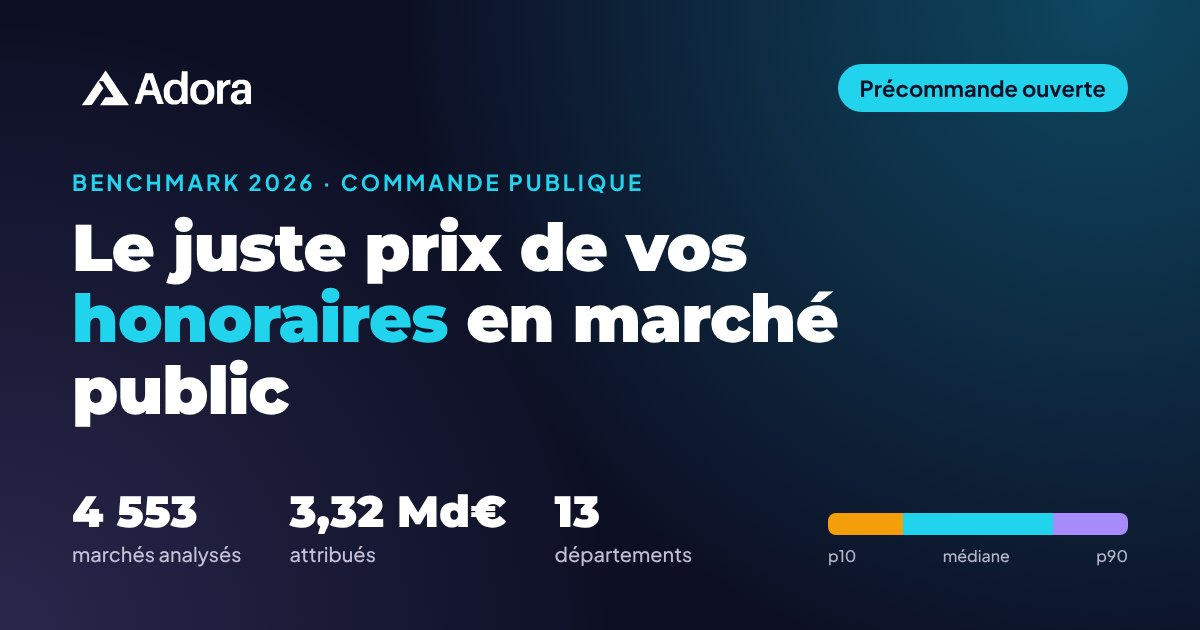
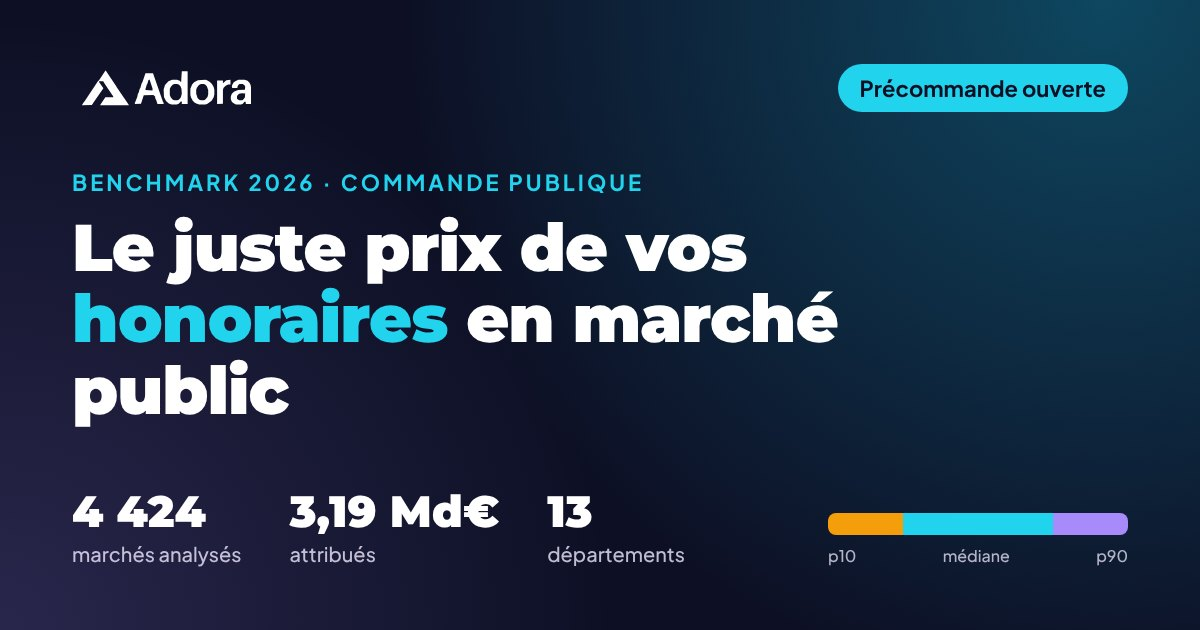
Benchmark : chiffres après second dédoublonnage (4 424 marchés, 3,19 Md€, +46 %)
Claude-Session: https://claude.ai/code/session_01AMF5KYxt2yLyme2bcbJtRg

Changed region(s): [[0.2775, 0.7841, 0.5242, 0.8444], [0.0925, 0.7841, 0.185, 0.8444], [0.4625, 0.8746, 0.5858, 0.9048]]

diff --git a/benchmark-honoraires.html b/benchmark-honoraires.html
@@ -12,12 +12,12 @@
 <link rel="stylesheet" href="assets/fonts/adora-fonts.css">
 
 <title>Benchmark des honoraires en marché public 2026 | IDF &amp; Normandie | ADORA</title>
-<meta name="description" content="4 553 marchés publics de maîtrise d'œuvre et d'ingénierie analysés en Île-de-France et en Normandie. Fourchettes d'honoraires p10 à p90 par typologie. Précommande 79 €.">
+<meta name="description" content="4 424 marchés publics de maîtrise d'œuvre et d'ingénierie analysés en Île-de-France et en Normandie. Fourchettes d'honoraires p10 à p90 par typologie. Précommande 79 €.">
 <link rel="canonical" href="https://adora-economie.fr/benchmark-honoraires.html">
 <meta property="og:type" content="product">
 <meta property="og:url" content="https://adora-economie.fr/benchmark-honoraires.html">
 <meta property="og:title" content="Le juste prix de vos honoraires en marché public | ADORA">
-<meta property="og:description" content="4 553 marchés de maîtrise d'œuvre et d'ingénierie analysés, fourchettes p10 à p90 par typologie et par département. Précommande au prix de lancement.">
+<meta property="og:description" content="4 424 marchés de maîtrise d'œuvre et d'ingénierie analysés, fourchettes p10 à p90 par typologie et par département. Précommande au prix de lancement.">
 <meta property="og:image" content="https://adora-economie.fr/img/articles/benchmark-honoraires.jpg">
 <meta property="og:image:width" content="1200">
 <meta property="og:image:height" content="630">
@@ -26,7 +26,7 @@
 <meta property="og:site_name" content="ADORA">
 <meta name="twitter:card" content="summary_large_image">
 <meta name="twitter:title" content="Le juste prix de vos honoraires en marché public | ADORA">
-<meta name="twitter:description" content="4 553 marchés publics analysés, fourchettes d'honoraires p10 à p90 par typologie. Précommande 79 €.">
+<meta name="twitter:description" content="4 424 marchés publics analysés, fourchettes d'honoraires p10 à p90 par typologie. Précommande 79 €.">
 <meta name="twitter:image" content="https://adora-economie.fr/img/articles/benchmark-honoraires.jpg">
 <meta name="geo.region" content="FR-NOR">
 <meta name="geo.placename" content="Louviers">
@@ -445,7 +445,7 @@ img{max-width:100%;height:auto}
       "@type": "Product",
       "@id": "https://adora-economie.fr/benchmark-honoraires.html#produit",
       "name": "Benchmark des honoraires en marché public 2026",
-      "description": "Rapport PDF et classeur Excel : 4 553 marchés publics de services d'architecture, d'ingénierie et d'inspection (CPV 71) attribués en Île-de-France et en Normandie, analysés par typologie d'opération et par département (fourchettes p10, p25, médiane, p75, p90).",
+      "description": "Rapport PDF et classeur Excel : 4 424 marchés publics de services d'architecture, d'ingénierie et d'inspection (CPV 71) attribués en Île-de-France et en Normandie, analysés par typologie d'opération et par département (fourchettes p10, p25, médiane, p75, p90).",
       "image": "https://adora-economie.fr/img/articles/benchmark-honoraires.jpg",
       "brand": { "@type": "Brand", "name": "ADORA" },
       "category": "Rapport d'étude de marché",
@@ -532,7 +532,7 @@ img{max-width:100%;height:auto}
         <button type="button" class="anav-trigger" aria-expanded="false" aria-controls="anav-pro">Professionnels<svg aria-hidden="true" width="14" height="14" viewBox="0 0 24 24" fill="none" stroke="currentColor" stroke-width="2.4" stroke-linecap="round" stroke-linejoin="round"><path d="M6 9l6 6 6-6"/></svg></button>
         <div class="anav-drop" id="anav-pro"><div class="anav-drop-card">
           <a href="professionnels.html" class="anav-link"><span class="t">Offre professionnels</span><span class="d">Estimations, métrés, CCTP, DPGF, analyse des offres</span></a>
-          <a href="benchmark-honoraires.html" class="anav-link" aria-current="page"><span class="t">Benchmark des honoraires <span class="anav-new">Nouveau</span></span><span class="d">4 553 marchés publics analysés</span></a>
+          <a href="benchmark-honoraires.html" class="anav-link" aria-current="page"><span class="t">Benchmark des honoraires <span class="anav-new">Nouveau</span></span><span class="d">4 424 marchés publics analysés</span></a>
           <a href="partenaires.html#devenir-partenaire" class="anav-link"><span class="t">Devenir partenaire</span><span class="d">Architectes et professionnels du bâtiment</span></a>
         </div></div>
       </li>
@@ -567,7 +567,7 @@ img{max-width:100%;height:auto}
         <span class="hero-badge">Édition 2026</span>
       </div>
       <h1>Le juste prix de vos <em>honoraires</em> en marché public.</h1>
-      <p class="lead">4 553 marchés de prestations d'architecture, d'ingénierie et d'assistance, classés par typologie d'opération et par département. Les fourchettes réellement retenues par les acheteurs publics, réunies dans un seul rapport.</p>
+      <p class="lead">4 424 marchés de prestations d'architecture, d'ingénierie et d'assistance, classés par typologie d'opération et par département. Les fourchettes réellement retenues par les acheteurs publics, réunies dans un seul rapport.</p>
       <div class="bm-hero-ctas">
         <a href="#offre" class="btn btn-accent">Précommander à 79 €</a>
         <a href="#contenu" class="btn btn-outline">Voir le contenu</a>
@@ -576,9 +576,9 @@ img{max-width:100%;height:auto}
     </div>
     <div class="bm-stats">
       <div class="bm-stats-grid">
-        <div><span class="bm-stat-val">4 553</span><span class="bm-stat-lbl">marchés attribués</span></div>
-        <div><span class="bm-stat-val">3,32 Md€</span><span class="bm-stat-lbl">de montants cumulés HT</span></div>
-        <div><span class="bm-stat-val">3 205</span><span class="bm-stat-lbl">titulaires différents</span></div>
+        <div><span class="bm-stat-val">4 424</span><span class="bm-stat-lbl">marchés attribués</span></div>
+        <div><span class="bm-stat-val">3,19 Md€</span><span class="bm-stat-lbl">de montants cumulés HT</span></div>
+        <div><span class="bm-stat-val">3 204</span><span class="bm-stat-lbl">titulaires différents</span></div>
         <div><span class="bm-stat-val">13</span><span class="bm-stat-lbl">départements couverts</span></div>
       </div>
       <p class="bm-source">Source : DECP consolidées, data.gouv.fr · Licence Ouverte 2.0<br>Marchés notifiés du 27/10/2024 au 26/10/2026</p>
@@ -626,7 +626,7 @@ img{max-width:100%;height:auto}
         <div class="bm-clean-out">
           <span class="bm-tag">Dans le rapport</span>
           <strong>Réhabilitation / rénovation</strong>
-          <div class="bm-chips"><span class="bm-chip">544 marchés</span><span class="bm-chip">p10 : 52 k€</span><span class="bm-chip">Médiane : 136 k€</span></div>
+          <div class="bm-chips"><span class="bm-chip">531 marchés</span><span class="bm-chip">p10 : 52 k€</span><span class="bm-chip">Médiane : 136 k€</span></div>
         </div>
       </div>
       <p class="bm-clean-end">J'ai rassemblé ces données, je les ai nettoyées et classées, pour que vous puissiez situer votre offre avant de la déposer.</p>
@@ -640,19 +640,19 @@ img{max-width:100%;height:auto}
     <div class="bm-head">
       <span class="bm-eyebrow on-dark">Deux repères tirés du benchmark</span>
       <h2 class="bm-h2 on-dark">Deux chiffres qui changent la façon de chiffrer</h2>
-      <p class="bm-lead on-dark">Extraits de l'analyse des 4 553 marchés. Le rapport les détaille famille par famille.</p>
+      <p class="bm-lead on-dark">Extraits de l'analyse des 4 424 marchés. Le rapport les détaille famille par famille.</p>
     </div>
     <div class="bm-cards-2">
       <div class="bm-dark-card">
         <div>
           <span class="k">Écart territorial</span>
-          <span class="v cyan">+47 %</span>
-          <p>L'écart de montant médian attribué entre l'Île-de-France et la Normandie, tous marchés confondus. Selon la famille de prestations, il va de −19 % à +217 %.</p>
+          <span class="v cyan">+46 %</span>
+          <p>L'écart de montant médian attribué entre l'Île-de-France et la Normandie, tous marchés confondus. Selon la famille de prestations, il va de −20 % à +225 %.</p>
         </div>
-        <div class="bm-viz" role="img" aria-label="Montant médian attribué, indice 100 en Normandie : Île-de-France 147.">
+        <div class="bm-viz" role="img" aria-label="Montant médian attribué, indice 100 en Normandie : Île-de-France 146.">
           <div class="bm-bar-row" aria-hidden="true"><span class="lbl">Normandie</span><div class="bm-bar-track"><div class="bm-bar-fill nor"></div></div></div>
           <div class="bm-bar-row" aria-hidden="true"><span class="lbl">Île-de-France</span><div class="bm-bar-track"><div class="bm-bar-fill idf"></div></div></div>
-          <div class="bm-bar-axis" aria-hidden="true"><span class="sp"></span><div class="ax"><span style="left:68%">100</span><span>147</span></div></div>
+          <div class="bm-bar-axis" aria-hidden="true"><span class="sp"></span><div class="ax"><span style="left:68%">100</span><span>146</span></div></div>
           <span class="bm-viz-note" aria-hidden="true">Indice 100 = montant médian attribué en Normandie</span>
         </div>
         <p class="bm-takeaway cyan"><strong>Ce que ça change :</strong> un même prix ne se lit pas pareil à Paris et à Évreux. Chiffrer sans repère territorial, c'est se tromper de marché.</p>
@@ -661,13 +661,13 @@ img{max-width:100%;height:auto}
         <div>
           <span class="k">Concentration du marché</span>
           <span class="v iris">1 marché sur 5</span>
-          <p>La part des marchés où l'on retrouve l'un des 50 titulaires les plus actifs, sur 3 205 titulaires différents.</p>
+          <p>La part des marchés où l'on retrouve l'un des 50 titulaires les plus actifs, sur 3 204 titulaires différents.</p>
         </div>
         <div class="bm-viz bm-donut-wrap">
           <svg role="img" aria-label="Les 50 titulaires les plus actifs sont présents dans 20 % des marchés ; 80 % des marchés vont à d'autres titulaires." width="132" height="132" viewBox="0 0 120 120"><circle cx="60" cy="60" r="46" fill="none" stroke="#4A4A7A" stroke-width="16"/><circle cx="60" cy="60" r="46" fill="none" stroke="#A78BFA" stroke-width="16" stroke-dasharray="58.96 289.03" transform="rotate(-90 60 60)"/><text x="60" y="57" text-anchor="middle" font-family="Montserrat, sans-serif" font-weight="800" font-size="16" fill="#FFFFFF">Top 50</text><text x="60" y="74" text-anchor="middle" font-family="ui-monospace, Menlo, monospace" font-size="11" fill="#C9CFE0">20 %</text></svg>
           <div class="bm-legend">
             <div><i style="background:#A78BFA"></i><span><b>50 titulaires les plus actifs</b><small>présents dans 20 % des marchés</small></span></div>
-            <div><i style="background:#4A4A7A;border:1px solid rgba(255,255,255,.3)"></i><span><b>3 155 autres titulaires</b><small>seuls sur 80 % des marchés</small></span></div>
+            <div><i style="background:#4A4A7A;border:1px solid rgba(255,255,255,.3)"></i><span><b>3 154 autres titulaires</b><small>seuls sur 80 % des marchés</small></span></div>
           </div>
         </div>
         <p class="bm-takeaway iris"><strong>Ce que ça change :</strong> le marché n'est pas verrouillé. Une structure indépendante bien positionnée y a toute sa place.</p>

diff --git a/professionnels.html b/professionnels.html
@@ -473,7 +473,7 @@ img{max-width:100%;height:auto}
         <button type="button" class="anav-trigger" aria-expanded="false" aria-controls="anav-pro">Professionnels<svg aria-hidden="true" width="14" height="14" viewBox="0 0 24 24" fill="none" stroke="currentColor" stroke-width="2.4" stroke-linecap="round" stroke-linejoin="round"><path d="M6 9l6 6 6-6"/></svg></button>
         <div class="anav-drop" id="anav-pro"><div class="anav-drop-card">
           <a href="professionnels.html" class="anav-link" aria-current="page"><span class="t">Offre professionnels</span><span class="d">Estimations, métrés, CCTP, DPGF, analyse des offres</span></a>
-          <a href="benchmark-honoraires.html" class="anav-link"><span class="t">Benchmark des honoraires <span class="anav-new">Nouveau</span></span><span class="d">4 553 marchés publics analysés</span></a>
+          <a href="benchmark-honoraires.html" class="anav-link"><span class="t">Benchmark des honoraires <span class="anav-new">Nouveau</span></span><span class="d">4 424 marchés publics analysés</span></a>
           <a href="partenaires.html#devenir-partenaire" class="anav-link"><span class="t">Devenir partenaire</span><span class="d">Architectes et professionnels du bâtiment</span></a>
         </div></div>
       </li>
@@ -588,7 +588,7 @@ img{max-width:100%;height:auto}
       <div style="flex:1 1 380px;min-width:0">
         <p style="margin:0 0 8px;font-size:12px;font-weight:700;letter-spacing:2px;text-transform:uppercase;color:#22D3EE">Nouveau · Benchmark 2026</p>
         <p style="margin:0 0 8px;font-family:'Montserrat',sans-serif;font-weight:800;font-size:22px;line-height:1.25;color:#FFFFFF">Et vos propres honoraires en marché public&#8239;?</p>
-        <p style="margin:0;font-size:15px;line-height:1.65;color:rgba(214,228,240,.85)">J'ai analysé 4 553 marchés de maîtrise d'œuvre et d'ingénierie attribués en Île-de-France et en Normandie. Le benchmark donne les fourchettes réellement retenues, typologie par typologie, pour situer votre offre avant de la déposer.</p>
+        <p style="margin:0;font-size:15px;line-height:1.65;color:rgba(214,228,240,.85)">J'ai analysé 4 424 marchés de maîtrise d'œuvre et d'ingénierie attribués en Île-de-France et en Normandie. Le benchmark donne les fourchettes réellement retenues, typologie par typologie, pour situer votre offre avant de la déposer.</p>
       </div>
       <a href="benchmark-honoraires.html" class="btn btn-accent" style="font-size:14px;padding:14px 26px;color:#0D1025;white-space:nowrap">Découvrir le benchmark</a>
     </div>

diff --git a/dpgf-comparable-consultation.html b/dpgf-comparable-consultation.html
@@ -300,7 +300,7 @@ img{max-width:100%;height:auto}
         <button type="button" class="anav-trigger" aria-expanded="false" aria-controls="anav-pro">Professionnels<svg aria-hidden="true" width="14" height="14" viewBox="0 0 24 24" fill="none" stroke="currentColor" stroke-width="2.4" stroke-linecap="round" stroke-linejoin="round"><path d="M6 9l6 6 6-6"/></svg></button>
         <div class="anav-drop" id="anav-pro"><div class="anav-drop-card">
           <a href="professionnels.html" class="anav-link"><span class="t">Offre professionnels</span><span class="d">Estimations, métrés, CCTP, DPGF, analyse des offres</span></a>
-          <a href="benchmark-honoraires.html" class="anav-link"><span class="t">Benchmark des honoraires <span class="anav-new">Nouveau</span></span><span class="d">4 553 marchés publics analysés</span></a>
+          <a href="benchmark-honoraires.html" class="anav-link"><span class="t">Benchmark des honoraires <span class="anav-new">Nouveau</span></span><span class="d">4 424 marchés publics analysés</span></a>
           <a href="partenaires.html#devenir-partenaire" class="anav-link"><span class="t">Devenir partenaire</span><span class="d">Architectes et professionnels du bâtiment</span></a>
         </div></div>
       </li>
@@ -434,7 +434,7 @@ img{max-width:100%;height:auto}
   <div style="flex:1 1 320px;min-width:0">
     <p style="margin:0 0 6px;font-size:12px;font-weight:700;letter-spacing:1.5px;text-transform:uppercase;color:#0E7490">Nouveau · Benchmark 2026</p>
     <p style="margin:0 0 6px;font-family:'Montserrat',sans-serif;font-weight:800;font-size:19px;line-height:1.3;color:#0D1025">Combien les acheteurs publics paient-ils vraiment une mission&#8239;?</p>
-    <p style="margin:0;font-size:15px;line-height:1.6;color:#64748B">4 553 marchés de maîtrise d'œuvre et d'ingénierie analysés en Île-de-France et en Normandie : fourchettes d'honoraires p10 à p90 par typologie et par département.</p>
+    <p style="margin:0;font-size:15px;line-height:1.6;color:#64748B">4 424 marchés de maîtrise d'œuvre et d'ingénierie analysés en Île-de-France et en Normandie : fourchettes d'honoraires p10 à p90 par typologie et par département.</p>
   </div>
   <a href="benchmark-honoraires.html" class="btn btn-accent" style="font-size:14px;padding:14px 24px;color:#0D1025">Découvrir le benchmark</a>
 </aside>

diff --git a/erreur-quantitatif-dce.html b/erreur-quantitatif-dce.html
@@ -300,7 +300,7 @@ img{max-width:100%;height:auto}
         <button type="button" class="anav-trigger" aria-expanded="false" aria-controls="anav-pro">Professionnels<svg aria-hidden="true" width="14" height="14" viewBox="0 0 24 24" fill="none" stroke="currentColor" stroke-width="2.4" stroke-linecap="round" stroke-linejoin="round"><path d="M6 9l6 6 6-6"/></svg></button>
         <div class="anav-drop" id="anav-pro"><div class="anav-drop-card">
           <a href="professionnels.html" class="anav-link"><span class="t">Offre professionnels</span><span class="d">Estimations, métrés, CCTP, DPGF, analyse des offres</span></a>
-          <a href="benchmark-honoraires.html" class="anav-link"><span class="t">Benchmark des honoraires <span class="anav-new">Nouveau</span></span><span class="d">4 553 marchés publics analysés</span></a>
+          <a href="benchmark-honoraires.html" class="anav-link"><span class="t">Benchmark des honoraires <span class="anav-new">Nouveau</span></span><span class="d">4 424 marchés publics analysés</span></a>
           <a href="partenaires.html#devenir-partenaire" class="anav-link"><span class="t">Devenir partenaire</span><span class="d">Architectes et professionnels du bâtiment</span></a>
         </div></div>
       </li>
@@ -426,7 +426,7 @@ img{max-width:100%;height:auto}
   <div style="flex:1 1 320px;min-width:0">
     <p style="margin:0 0 6px;font-size:12px;font-weight:700;letter-spacing:1.5px;text-transform:uppercase;color:#0E7490">Nouveau · Benchmark 2026</p>
     <p style="margin:0 0 6px;font-family:'Montserrat',sans-serif;font-weight:800;font-size:19px;line-height:1.3;color:#0D1025">Combien les acheteurs publics paient-ils vraiment une mission&#8239;?</p>
-    <p style="margin:0;font-size:15px;line-height:1.6;color:#64748B">4 553 marchés de maîtrise d'œuvre et d'ingénierie analysés en Île-de-France et en Normandie : fourchettes d'honoraires p10 à p90 par typologie et par département.</p>
+    <p style="margin:0;font-size:15px;line-height:1.6;color:#64748B">4 424 marchés de maîtrise d'œuvre et d'ingénierie analysés en Île-de-France et en Normandie : fourchettes d'honoraires p10 à p90 par typologie et par département.</p>
   </div>
   <a href="benchmark-honoraires.html" class="btn btn-accent" style="font-size:14px;padding:14px 24px;color:#0D1025">Découvrir le benchmark</a>
 </aside>

diff --git a/honoraires-economiste-mission-moe.html b/honoraires-economiste-mission-moe.html
@@ -300,7 +300,7 @@ img{max-width:100%;height:auto}
         <button type="button" class="anav-trigger" aria-expanded="false" aria-controls="anav-pro">Professionnels<svg aria-hidden="true" width="14" height="14" viewBox="0 0 24 24" fill="none" stroke="currentColor" stroke-width="2.4" stroke-linecap="round" stroke-linejoin="round"><path d="M6 9l6 6 6-6"/></svg></button>
         <div class="anav-drop" id="anav-pro"><div class="anav-drop-card">
           <a href="professionnels.html" class="anav-link"><span class="t">Offre professionnels</span><span class="d">Estimations, métrés, CCTP, DPGF, analyse des offres</span></a>
-          <a href="benchmark-honoraires.html" class="anav-link"><span class="t">Benchmark des honoraires <span class="anav-new">Nouveau</span></span><span class="d">4 553 marchés publics analysés</span></a>
+          <a href="benchmark-honoraires.html" class="anav-link"><span class="t">Benchmark des honoraires <span class="anav-new">Nouveau</span></span><span class="d">4 424 marchés publics analysés</span></a>
           <a href="partenaires.html#devenir-partenaire" class="anav-link"><span class="t">Devenir partenaire</span><span class="d">Architectes et professionnels du bâtiment</span></a>
         </div></div>
       </li>
@@ -434,7 +434,7 @@ img{max-width:100%;height:auto}
   <div style="flex:1 1 320px;min-width:0">
     <p style="margin:0 0 6px;font-size:12px;font-weight:700;letter-spacing:1.5px;text-transform:uppercase;color:#0E7490">Nouveau · Benchmark 2026</p>
     <p style="margin:0 0 6px;font-family:'Montserrat',sans-serif;font-weight:800;font-size:19px;line-height:1.3;color:#0D1025">Combien les acheteurs publics paient-ils vraiment une mission&#8239;?</p>
-    <p style="margin:0;font-size:15px;line-height:1.6;color:#64748B">4 553 marchés de maîtrise d'œuvre et d'ingénierie analysés en Île-de-France et en Normandie : fourchettes d'honoraires p10 à p90 par typologie et par département.</p>
+    <p style="margin:0;font-size:15px;line-height:1.6;color:#64748B">4 424 marchés de maîtrise d'œuvre et d'ingénierie analysés en Île-de-France et en Normandie : fourchettes d'honoraires p10 à p90 par typologie et par département.</p>
   </div>
   <a href="benchmark-honoraires.html" class="btn btn-accent" style="font-size:14px;padding:14px 24px;color:#0D1025">Découvrir le benchmark</a>
 </aside>

diff --git a/rapport-analyse-offres-mapa.html b/rapport-analyse-offres-mapa.html
@@ -300,7 +300,7 @@ img{max-width:100%;height:auto}
         <button type="button" class="anav-trigger" aria-expanded="false" aria-controls="anav-pro">Professionnels<svg aria-hidden="true" width="14" height="14" viewBox="0 0 24 24" fill="none" stroke="currentColor" stroke-width="2.4" stroke-linecap="round" stroke-linejoin="round"><path d="M6 9l6 6 6-6"/></svg></button>
         <div class="anav-drop" id="anav-pro"><div class="anav-drop-card">
           <a href="professionnels.html" class="anav-link"><span class="t">Offre professionnels</span><span class="d">Estimations, métrés, CCTP, DPGF, analyse des offres</span></a>
-          <a href="benchmark-honoraires.html" class="anav-link"><span class="t">Benchmark des honoraires <span class="anav-new">Nouveau</span></span><span class="d">4 553 marchés publics analysés</span></a>
+          <a href="benchmark-honoraires.html" class="anav-link"><span class="t">Benchmark des honoraires <span class="anav-new">Nouveau</span></span><span class="d">4 424 marchés publics analysés</span></a>
           <a href="partenaires.html#devenir-partenaire" class="anav-link"><span class="t">Devenir partenaire</span><span class="d">Architectes et professionnels du bâtiment</span></a>
         </div></div>
       </li>
@@ -430,7 +430,7 @@ img{max-width:100%;height:auto}
   <div style="flex:1 1 320px;min-width:0">
     <p style="margin:0 0 6px;font-size:12px;font-weight:700;letter-spacing:1.5px;text-transform:uppercase;color:#0E7490">Nouveau · Benchmark 2026</p>
     <p style="margin:0 0 6px;font-family:'Montserrat',sans-serif;font-weight:800;font-size:19px;line-height:1.3;color:#0D1025">Combien les acheteurs publics paient-ils vraiment une mission&#8239;?</p>
-    <p style="margin:0;font-size:15px;line-height:1.6;color:#64748B">4 553 marchés de maîtrise d'œuvre et d'ingénierie analysés en Île-de-France et en Normandie : fourchettes d'honoraires p10 à p90 par typologie et par département.</p>
+    <p style="margin:0;font-size:15px;line-height:1.6;color:#64748B">4 424 marchés de maîtrise d'œuvre et d'ingénierie analysés en Île-de-France et en Normandie : fourchettes d'honoraires p10 à p90 par typologie et par département.</p>
   </div>
   <a href="benchmark-honoraires.html" class="btn btn-accent" style="font-size:14px;padding:14px 24px;color:#0D1025">Découvrir le benchmark</a>
 </aside>

diff --git a/blog.html b/blog.html
@@ -557,7 +557,7 @@ img{max-width:100%;height:auto}
         <button type="button" class="anav-trigger" aria-expanded="false" aria-controls="anav-pro">Professionnels<svg aria-hidden="true" width="14" height="14" viewBox="0 0 24 24" fill="none" stroke="currentColor" stroke-width="2.4" stroke-linecap="round" stroke-linejoin="round"><path d="M6 9l6 6 6-6"/></svg></button>
         <div class="anav-drop" id="anav-pro"><div class="anav-drop-card">
           <a href="professionnels.html" class="anav-link"><span class="t">Offre professionnels</span><span class="d">Estimations, métrés, CCTP, DPGF, analyse des offres</span></a>
-          <a href="benchmark-honoraires.html" class="anav-link"><span class="t">Benchmark des honoraires <span class="anav-new">Nouveau</span></span><span class="d">4 553 marchés publics analysés</span></a>
+          <a href="benchmark-honoraires.html" class="anav-link"><span class="t">Benchmark des honoraires <span class="anav-new">Nouveau</span></span><span class="d">4 424 marchés publics analysés</span></a>
           <a href="partenaires.html#devenir-partenaire" class="anav-link"><span class="t">Devenir partenaire</span><span class="d">Architectes et professionnels du bâtiment</span></a>
         </div></div>
       </li>
@@ -710,11 +710,11 @@ img{max-width:100%;height:auto}
       <aside class="pb-bench" aria-labelledby="pb-bench-title">
         <span class="pb-bench-tag">Précommande ouverte</span>
         <h3 id="pb-bench-title">Benchmark des honoraires en marché public 2026</h3>
-        <span class="pb-measure"><span class="pb-fig">4 553</span><span class="pb-dim"></span></span>
+        <span class="pb-measure"><span class="pb-fig">4 424</span><span class="pb-dim"></span></span>
         <span class="pb-cap">marchés attribués en Île-de-France et en Normandie, classés par typologie et par département</span>
         <dl class="pb-bench-stats">
-          <div><dt>3,32 Md€</dt><dd>de montants cumulés HT</dd></div>
-          <div><dt>3 205</dt><dd>titulaires différents</dd></div>
+          <div><dt>3,19 Md€</dt><dd>de montants cumulés HT</dd></div>
+          <div><dt>3 204</dt><dd>titulaires différents</dd></div>
         </dl>
         <ul>
           <li>Fourchettes d'honoraires du p10 au p90</li>

diff --git a/index.html b/index.html
@@ -285,7 +285,7 @@ img{max-width:100%;height:auto}
         <button type="button" class="anav-trigger" aria-expanded="false" aria-controls="anav-pro">Professionnels<svg aria-hidden="true" width="14" height="14" viewBox="0 0 24 24" fill="none" stroke="currentColor" stroke-width="2.4" stroke-linecap="round" stroke-linejoin="round"><path d="M6 9l6 6 6-6"/></svg></button>
         <div class="anav-drop" id="anav-pro"><div class="anav-drop-card">
           <a href="professionnels.html" class="anav-link"><span class="t">Offre professionnels</span><span class="d">Estimations, métrés, CCTP, DPGF, analyse des offres</span></a>
-          <a href="benchmark-honoraires.html" class="anav-link"><span class="t">Benchmark des honoraires <span class="anav-new">Nouveau</span></span><span class="d">4 553 marchés publics analysés</span></a>
+          <a href="benchmark-honoraires.html" class="anav-link"><span class="t">Benchmark des honoraires <span class="anav-new">Nouveau</span></span><span class="d">4 424 marchés publics analysés</span></a>
           <a href="partenaires.html#devenir-partenaire" class="anav-link"><span class="t">Devenir partenaire</span><span class="d">Architectes et professionnels du bâtiment</span></a>
         </div></div>
       </li>
@@ -432,7 +432,7 @@ img{max-width:100%;height:auto}
       </a>
       <a class="hm-tile" href="benchmark-honoraires.html" data-ev="pro_benchmark">
         <h3>Benchmark des honoraires 2026</h3>
-        <div class="hm-measure"><span class="hm-fig">4&nbsp;553</span><span class="hm-dim" aria-hidden="true"></span></div>
+        <div class="hm-measure"><span class="hm-fig">4&nbsp;424</span><span class="hm-dim" aria-hidden="true"></span></div>
         <span class="hm-cap">marchés publics d'architecture et d'ingénierie analysés</span>
         <p>Le juste prix de vos honoraires, typologie par typologie, en Île-de-France et en Normandie.</p>
         <span class="hm-tile-go">Découvrir le benchmark →</span>

diff --git a/paiement-reussi-benchmark.html b/paiement-reussi-benchmark.html
@@ -254,7 +254,7 @@ img{max-width:100%;height:auto}
         <button type="button" class="anav-trigger" aria-expanded="false" aria-controls="anav-pro">Professionnels<svg aria-hidden="true" width="14" height="14" viewBox="0 0 24 24" fill="none" stroke="currentColor" stroke-width="2.4" stroke-linecap="round" stroke-linejoin="round"><path d="M6 9l6 6 6-6"/></svg></button>
         <div class="anav-drop" id="anav-pro"><div class="anav-drop-card">
           <a href="professionnels.html" class="anav-link"><span class="t">Offre professionnels</span><span class="d">Estimations, métrés, CCTP, DPGF, analyse des offres</span></a>
-          <a href="benchmark-honoraires.html" class="anav-link" aria-current="page"><span class="t">Benchmark des honoraires <span class="anav-new">Nouveau</span></span><span class="d">4 553 marchés publics analysés</span></a>
+          <a href="benchmark-honoraires.html" class="anav-link" aria-current="page"><span class="t">Benchmark des honoraires <span class="anav-new">Nouveau</span></span><span class="d">4 424 marchés publics analysés</span></a>
           <a href="partenaires.html#devenir-partenaire" class="anav-link"><span class="t">Devenir partenaire</span><span class="d">Architectes et professionnels du bâtiment</span></a>
         </div></div>
       </li>

diff --git a/audit-formulaire.html b/audit-formulaire.html
@@ -271,7 +271,7 @@ input,select,textarea{font-family:inherit}
         <button type="button" class="anav-trigger" aria-expanded="false" aria-controls="anav-pro">Professionnels<svg aria-hidden="true" width="14" height="14" viewBox="0 0 24 24" fill="none" stroke="currentColor" stroke-width="2.4" stroke-linecap="round" stroke-linejoin="round"><path d="M6 9l6 6 6-6"/></svg></button>
         <div class="anav-drop" id="anav-pro"><div class="anav-drop-card">
           <a href="professionnels.html" class="anav-link"><span class="t">Offre professionnels</span><span class="d">Estimations, métrés, CCTP, DPGF, analyse des offres</span></a>
-          <a href="benchmark-honoraires.html" class="anav-link"><span class="t">Benchmark des honoraires <span class="anav-new">Nouveau</span></span><span class="d">4 553 marchés publics analysés</span></a>
+          <a href="benchmark-honoraires.html" class="anav-link"><span class="t">Benchmark des honoraires <span class="anav-new">Nouveau</span></span><span class="d">4 424 marchés publics analysés</span></a>
           <a href="partenaires.html#devenir-partenaire" class="anav-link"><span class="t">Devenir partenaire</span><span class="d">Architectes et professionnels du bâtiment</span></a>
         </div></div>
       </li>

diff --git a/simulateur.html b/simulateur.html
@@ -385,7 +385,7 @@ input,select,textarea{font-family:inherit}
         <button type="button" class="anav-trigger" aria-expanded="false" aria-controls="anav-pro">Professionnels<svg aria-hidden="true" width="14" height="14" viewBox="0 0 24 24" fill="none" stroke="currentColor" stroke-width="2.4" stroke-linecap="round" stroke-linejoin="round"><path d="M6 9l6 6 6-6"/></svg></button>
         <div class="anav-drop" id="anav-pro"><div class="anav-drop-card">
           <a href="professionnels.html" class="anav-link"><span class="t">Offre professionnels</span><span class="d">Estimations, métrés, CCTP, DPGF, analyse des offres</span></a>
-          <a href="benchmark-honoraires.html" class="anav-link"><span class="t">Benchmark des honoraires <span class="anav-new">Nouveau</span></span><span class="d">4 553 marchés publics analysés</span></a>
+          <a href="benchmark-honoraires.html" class="anav-link"><span class="t">Benchmark des honoraires <span class="anav-new">Nouveau</span></span><span class="d">4 424 marchés publics analysés</span></a>
           <a href="partenaires.html#devenir-partenaire" class="anav-link"><span class="t">Devenir partenaire</span><span class="d">Architectes et professionnels du bâtiment</span></a>
         </div></div>
       </li>

diff --git a/paiement-reussi.html b/paiement-reussi.html
@@ -172,7 +172,7 @@ a{color:inherit;text-decoration:none}
         <button type="button" class="anav-trigger" aria-expanded="false" aria-controls="anav-pro">Professionnels<svg aria-hidden="true" width="14" height="14" viewBox="0 0 24 24" fill="none" stroke="currentColor" stroke-width="2.4" stroke-linecap="round" stroke-linejoin="round"><path d="M6 9l6 6 6-6"/></svg></button>
         <div class="anav-drop" id="anav-pro"><div class="anav-drop-card">
           <a href="professionnels.html" class="anav-link"><span class="t">Offre professionnels</span><span class="d">Estimations, métrés, CCTP, DPGF, analyse des offres</span></a>
-          <a href="benchmark-honoraires.html" class="anav-link"><span class="t">Benchmark des honoraires <span class="anav-new">Nouveau</span></span><span class="d">4 553 marchés publics analysés</span></a>
+          <a href="benchmark-honoraires.html" class="anav-link"><span class="t">Benchmark des honoraires <span class="anav-new">Nouveau</span></span><span class="d">4 424 marchés publics analysés</span></a>
           <a href="partenaires.html#devenir-partenaire" class="anav-link"><span class="t">Devenir partenaire</span><span class="d">Architectes et professionnels du bâtiment</span></a>
         </div></div>
       </li>
